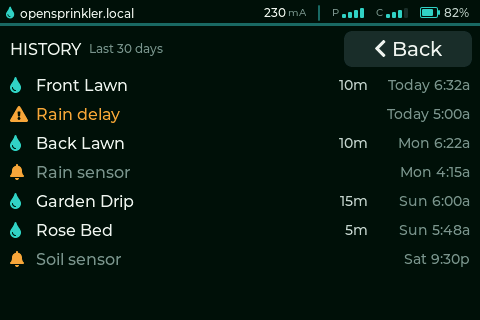
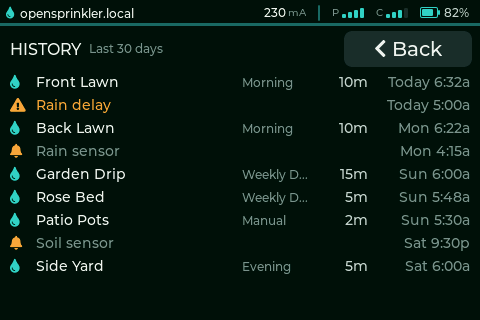
#127 History: per-row program tags (Option C) + denser 9-row layout
Include program runs in the history log via Option C: keep one row per station
run (no collapsing, so no grouping edge cases) and tag each row with the program
that drove it. The trailing tag column now shows the program name for a program
run (muted, fixed-width, ellipsized) and still "Manual" for manual runs; run-once
and events are untagged. Added a `tag` field to the portable HistoryEntry view
model; fixtures supply realistic program names (Morning, Evening, Weekly Deep).

To offset the extra records, rows are denser: 7 -> 9 rows per page, row height
29 -> 23, name/icon font 16 -> 14, and the pager arrows are slimmed 36 -> 30 so
nothing collides. Header, empty state, and per-page paging unchanged otherwise.

Re-rendered history states. Native 191/191 green. cyd-35r flash 1470009 ->
1474453 (+4444, +0.23%). include/lv_conf.h byte-identical; nothing vendored.

Copilot-Session: e9242aba-b524-48da-8bd5-a10cf8c2ef23

diff --git a/lib/ui/panel_screen.cpp b/lib/ui/panel_screen.cpp
@@ -630,11 +630,14 @@ PanelScreen build_panel_screen(lv_obj_t* scr, const Callbacks& cbs) {
 
     // ---- History list panel (#127) - full-width overlay ----------------
     // Mirrors the programs overlay (same header/Back, same pager) but with
-    // COMPACT single-line rows so ~7 fit per page instead of 4. Each row is:
-    //   [icon]  name .....(flex)..... duration  short-timestamp
-    // No day grouping, no touch scrolling; paging is the pager only.
-    static constexpr int HIST_HDR_H  = 44;
-    static constexpr int HIST_ROW_H  = 29;
+    // COMPACT single-line rows so ~9 fit per page instead of 4. Each row is:
+    //   [icon]  name  [program tag] .....(flex)..... duration  short-timestamp
+    // No day grouping, no touch scrolling; paging is the pager only. Rows are
+    // denser than v1 (23px vs 29, montserrat_14) to fit two more per page; the
+    // pager arrows are slimmed to match (HIST_ARROW_H) so nothing collides.
+    static constexpr int HIST_HDR_H   = 44;
+    static constexpr int HIST_ROW_H   = 23;
+    static constexpr int HIST_ARROW_H = 30;  // slim pager arrow (vs NAV_BTN_H 36)
     static constexpr int HIST_ROWS_BOTTOM = HIST_HDR_H + MAX_HIST_ROWS * HIST_ROW_H;
     static constexpr int HIST_PAGER_CY = HIST_ROWS_BOTTOM +
                                          (PROG_LIST_H - HIST_ROWS_BOTTOM) / 2;
@@ -707,7 +710,7 @@ PanelScreen build_panel_screen(lv_obj_t* scr, const Callbacks& cbs) {
         // Leading kind icon (colour/glyph set per-frame in update).
         ps.hist_row_icon[r] = lv_label_create(ps.hist_rows[r]);
         lv_label_set_text(ps.hist_row_icon[r], "");
-        lv_obj_set_style_text_font(ps.hist_row_icon[r], &lv_font_montserrat_16, 0);
+        lv_obj_set_style_text_font(ps.hist_row_icon[r], &lv_font_montserrat_14, 0);
         lv_obj_set_style_text_color(ps.hist_row_icon[r], hex_color(CLR_TEAL), 0);
         lv_obj_align(ps.hist_row_icon[r], LV_ALIGN_LEFT_MID, HIST_ICON_X, 0);
 
@@ -716,19 +719,24 @@ PanelScreen build_panel_screen(lv_obj_t* scr, const Callbacks& cbs) {
         lv_label_set_text(ps.hist_row_name[r], "");
         lv_obj_set_width(ps.hist_row_name[r], HIST_NAME_W);
         // Constrain to one line so LONG_DOT ellipsizes instead of wrapping when
-        // the name is narrowed (e.g. manual rows that reserve room for the tag).
+        // the name is narrowed (e.g. rows that reserve room for the program tag).
         lv_obj_set_height(ps.hist_row_name[r],
-                          lv_font_get_line_height(&lv_font_montserrat_16));
+                          lv_font_get_line_height(&lv_font_montserrat_14));
         lv_label_set_long_mode(ps.hist_row_name[r], LV_LABEL_LONG_DOT);
-        lv_obj_set_style_text_font(ps.hist_row_name[r], &lv_font_montserrat_16, 0);
+        lv_obj_set_style_text_font(ps.hist_row_name[r], &lv_font_montserrat_14, 0);
         lv_obj_set_style_text_color(ps.hist_row_name[r], hex_color(CLR_TEXT), 0);
         lv_obj_align(ps.hist_row_name[r], LV_ALIGN_LEFT_MID, HIST_NAME_X, 0);
 
-        // Trailing "Manual" tag (shown only on manual-run rows). Muted, smaller
-        // font, at a fixed x just past the narrowed name column so it reads as a
-        // label on the row without colliding with the duration zone.
+        // Trailing context tag: the program name for a program run (or "Manual"
+        // for a manual run), muted and smaller, in a fixed column just past the
+        // narrowed name so it never collides with the duration zone. Fixed width
+        // + LONG_DOT so a long program name ellipsizes inside its own column.
         ps.hist_row_tag[r] = lv_label_create(ps.hist_rows[r]);
-        lv_label_set_text(ps.hist_row_tag[r], "Manual");
+        lv_label_set_text(ps.hist_row_tag[r], "");
+        lv_obj_set_width(ps.hist_row_tag[r], HIST_TAG_W);
+        lv_obj_set_height(ps.hist_row_tag[r],
+                          lv_font_get_line_height(&lv_font_montserrat_12));
+        lv_label_set_long_mode(ps.hist_row_tag[r], LV_LABEL_LONG_DOT);
         lv_obj_set_style_text_font(ps.hist_row_tag[r], &lv_font_montserrat_12, 0);
         lv_obj_set_style_text_color(ps.hist_row_tag[r], hex_color(CLR_MUTED), 0);
         lv_obj_align(ps.hist_row_tag[r], LV_ALIGN_LEFT_MID, HIST_TAG_X, 0);
@@ -768,11 +776,11 @@ PanelScreen build_panel_screen(lv_obj_t* scr, const Callbacks& cbs) {
         }
 
         static constexpr int ARROW_INSET = 14;
-        const int arrow_y = HIST_PAGER_CY - NAV_BTN_H / 2;
+        const int arrow_y = HIST_PAGER_CY - HIST_ARROW_H / 2;
 
         ps.hist_page_prev = make_btn(ps.pnl_history, LV_SYMBOL_LEFT,
                                      CLR_LINE, CLR_TEXT, &lv_font_montserrat_20, 8);
-        lv_obj_set_size(ps.hist_page_prev, PROG_ARROW_W, NAV_BTN_H);
+        lv_obj_set_size(ps.hist_page_prev, PROG_ARROW_W, HIST_ARROW_H);
         lv_obj_set_pos(ps.hist_page_prev, ARROW_INSET, arrow_y);
         if (cbs.on_hist_page_prev)
             lv_obj_add_event_cb(ps.hist_page_prev, cbs.on_hist_page_prev,
@@ -781,7 +789,7 @@ PanelScreen build_panel_screen(lv_obj_t* scr, const Callbacks& cbs) {
 
         ps.hist_page_next = make_btn(ps.pnl_history, LV_SYMBOL_RIGHT,
                                      CLR_LINE, CLR_TEXT, &lv_font_montserrat_20, 8);
-        lv_obj_set_size(ps.hist_page_next, PROG_ARROW_W, NAV_BTN_H);
+        lv_obj_set_size(ps.hist_page_next, PROG_ARROW_W, HIST_ARROW_H);
         lv_obj_set_pos(ps.hist_page_next, SCREEN_W - PROG_ARROW_W - ARROW_INSET, arrow_y);
         if (cbs.on_hist_page_next)
             lv_obj_add_event_cb(ps.hist_page_next, cbs.on_hist_page_next,
@@ -1295,13 +1303,17 @@ void update_panel_screen(PanelScreen& ps,
                 lv_label_set_text(ps.hist_row_icon[r], icon);
                 lv_obj_set_style_text_color(ps.hist_row_icon[r], hex_color(icon_col), 0);
 
-                // Manual-run tag: narrow the name column so the "Manual" tag
-                // (fixed x) never collides with the name; the name ellipsizes
-                // first when it is long.
-                const bool manual = (e.kind == HistoryEntry::ManualRun);
+                // Context tag: program name for a program run, "Manual" for a
+                // manual run (default when the fixture leaves tag null). When a
+                // tag is present the name column is narrowed so the two never
+                // overlap and the name ellipsizes first.
+                const char* tag = e.tag;
+                if (!tag && e.kind == HistoryEntry::ManualRun) tag = "Manual";
+                const bool has_tag = tag && tag[0];
                 lv_obj_set_width(ps.hist_row_name[r],
-                                 manual ? HIST_NAME_W_TAG : HIST_NAME_W);
-                obj_set_hidden(ps.hist_row_tag[r], !manual);
+                                 has_tag ? HIST_NAME_W_TAG : HIST_NAME_W);
+                if (has_tag) lv_label_set_text(ps.hist_row_tag[r], tag);
+                obj_set_hidden(ps.hist_row_tag[r], !has_tag);
                 lv_label_set_text(ps.hist_row_name[r], e.name ? e.name : "");
                 lv_obj_set_style_text_color(ps.hist_row_name[r], hex_color(name_col), 0);
 

diff --git a/sim/fixtures.cpp b/sim/fixtures.cpp
@@ -155,38 +155,46 @@ Fixture make_fixture(const std::string& state) {
         f.view.showing_programs_list = true;
         f.view.prog_list_page = 1;
     } else if (state == "history-list" || state == "history-list-paged") {
-        // Realistic mixed log across named yard zones: program runs, one manual
-        // run, one run-once. 11 rows -> 2 pages (7 + 4) so the pager engages.
+        // Realistic mixed log across named yard zones. Each station run is tagged
+        // with the program that drove it (Option C: no collapsing - one row per
+        // station run, the program name in the trailing tag). 15 rows -> 2 pages
+        // (9 + 6) so the pager engages.
         f.view.showing_history = true;
         f.view.hist_list_page = (state == "history-list-paged") ? 1 : 0;
         using HE = ui::HistoryEntry;
         f.history_entries = {
-            {"Front Lawn",  600, "Today 6:32a", HE::ProgramRun},
-            {"Back Lawn",   600, "Today 6:22a", HE::ProgramRun},
-            {"Rose Bed",    300, "Today 6:12a", HE::ProgramRun},
-            {"Garden Drip", 900, "Today 6:00a", HE::ProgramRun},
+            {"Front Lawn",  600, "Today 6:32a", HE::ProgramRun, "Morning"},
+            {"Back Lawn",   600, "Today 6:22a", HE::ProgramRun, "Morning"},
+            {"Rose Bed",    300, "Today 6:12a", HE::ProgramRun, "Morning"},
+            {"Garden Drip", 900, "Today 6:00a", HE::ProgramRun, "Morning"},
             {"Backyard Vegetable Garden Beds", 120, "Today 5:45a", HE::ManualRun},
             {"Veggie Beds", 480, "Today 5:30a", HE::RunOnce},
-            {"Side Yard",   300, "Tue 8:15p",   HE::ProgramRun},
-            {"Front Lawn",  600, "Tue 6:32a",   HE::ProgramRun},
-            {"Back Lawn",   600, "Tue 6:22a",   HE::ProgramRun},
-            {"Parkway",     240, "Mon 7:10p",   HE::ManualRun},
-            {"Garden Drip", 900, "Jul 28",      HE::ProgramRun},
+            {"Parkway",     300, "Tue 8:15p",   HE::ProgramRun, "Evening"},
+            {"Front Lawn",  600, "Tue 6:32a",   HE::ProgramRun, "Morning"},
+            {"Back Lawn",   600, "Tue 6:22a",   HE::ProgramRun, "Morning"},
+            {"Side Yard",   240, "Mon 7:10p",   HE::ManualRun},
+            {"Rose Bed",    300, "Mon 6:12a",   HE::ProgramRun, "Morning"},
+            {"Garden Drip", 900, "Sun 6:00a",   HE::ProgramRun, "Weekly Deep"},
+            {"Front Lawn",  600, "Sun 5:45a",   HE::ProgramRun, "Weekly Deep"},
+            {"Parkway",     300, "Jul 28",      HE::ProgramRun, "Evening"},
+            {"Veggie Beds", 480, "Jul 27",      HE::RunOnce},
         };
     } else if (state == "history-mixed-events") {
-        // A page that mixes runs with a rain-delay + sensor events so their
-        // icons and dimming are visible alongside normal runs.
+        // A page that mixes tagged program runs with a rain-delay + sensor
+        // events so their icons and dimming are visible alongside normal runs.
         f.view.showing_history = true;
         f.view.hist_list_page = 0;
         using HE = ui::HistoryEntry;
         f.history_entries = {
-            {"Front Lawn",   600,   "Today 6:32a", HE::ProgramRun},
+            {"Front Lawn",   600,   "Today 6:32a", HE::ProgramRun, "Morning"},
             {"Rain delay",   86400, "Today 5:00a", HE::RainDelay},
-            {"Back Lawn",    600,   "Mon 6:22a",   HE::ProgramRun},
+            {"Back Lawn",    600,   "Mon 6:22a",   HE::ProgramRun, "Morning"},
             {"Rain sensor",  0,     "Mon 4:15a",   HE::Sensor1},
-            {"Garden Drip",  900,   "Sun 6:00a",   HE::ProgramRun},
-            {"Rose Bed",     300,   "Sun 5:48a",   HE::ProgramRun},
+            {"Garden Drip",  900,   "Sun 6:00a",   HE::ProgramRun, "Weekly Deep"},
+            {"Rose Bed",     300,   "Sun 5:48a",   HE::ProgramRun, "Weekly Deep"},
+            {"Patio Pots",   120,   "Sun 5:30a",   HE::ManualRun},
             {"Soil sensor",  0,     "Sat 9:30p",   HE::Sensor2},
+            {"Side Yard",    300,   "Sat 6:00a",   HE::ProgramRun, "Evening"},
         };
     } else if (state == "history-empty") {
         // No log yet: centred empty-state message, Back + top bar still shown.

diff --git a/lib/ui/ui_layout.h b/lib/ui/ui_layout.h
@@ -45,8 +45,8 @@ static constexpr int MAX_PROG_ROWS  = 4;  // program rows per page
 static constexpr int MAX_PROG_PAGES = 6;  // pager dot capacity
 static constexpr int MAX_QROWS      = 9;  // visible program-queue rows
 
-// #127 History overlay: compact single-line rows, ~7 per page (vs 4 programs).
-static constexpr int MAX_HIST_ROWS  = 7;  // history rows per page
+// #127 History overlay: compact single-line rows, ~9 per page (vs 4 programs).
+static constexpr int MAX_HIST_ROWS  = 9;  // history rows per page
 static constexpr int MAX_HIST_PAGES = 6;  // history pager dot capacity
 
 // #127 History row content geometry (shared by the build + per-frame update so

diff --git a/lib/ui/history_view.h b/lib/ui/history_view.h
@@ -29,6 +29,10 @@ struct HistoryEntry {
     uint32_t    dur_s = 0;    // precomputed run duration, seconds
     const char* when  = "";   // precomputed short timestamp, e.g. "Today 6:32a"
     Kind        kind  = ProgramRun;
+    // Optional context label shown after the name (muted). For a program run
+    // this is the program name (e.g. "Morning"); manual runs default to
+    // "Manual" when null. Events (rain delay, sensors) leave it null.
+    const char* tag   = nullptr;
 };
 
 // The full History view model: a borrowed span of entries plus the current
